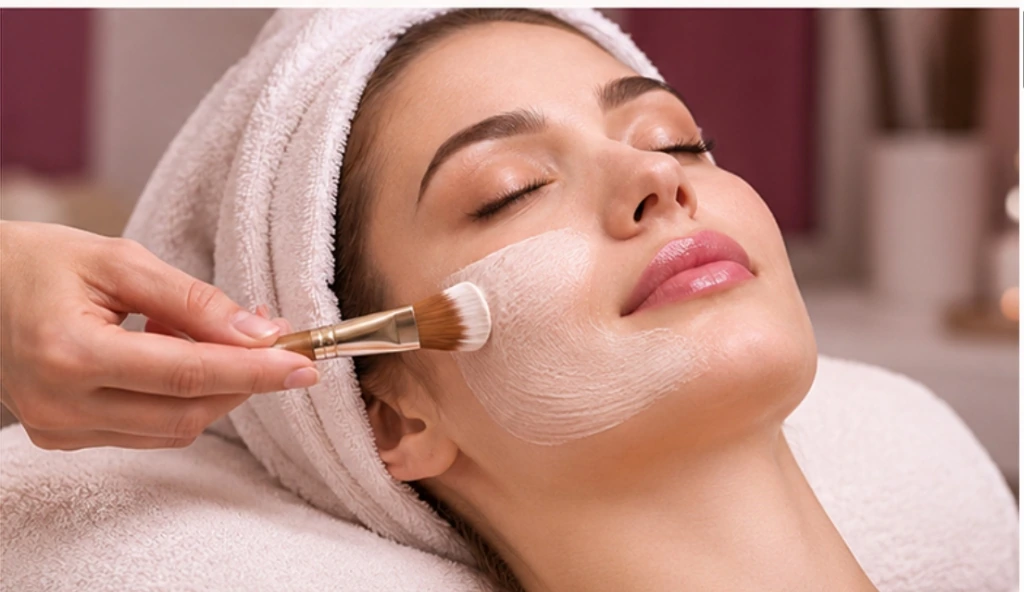
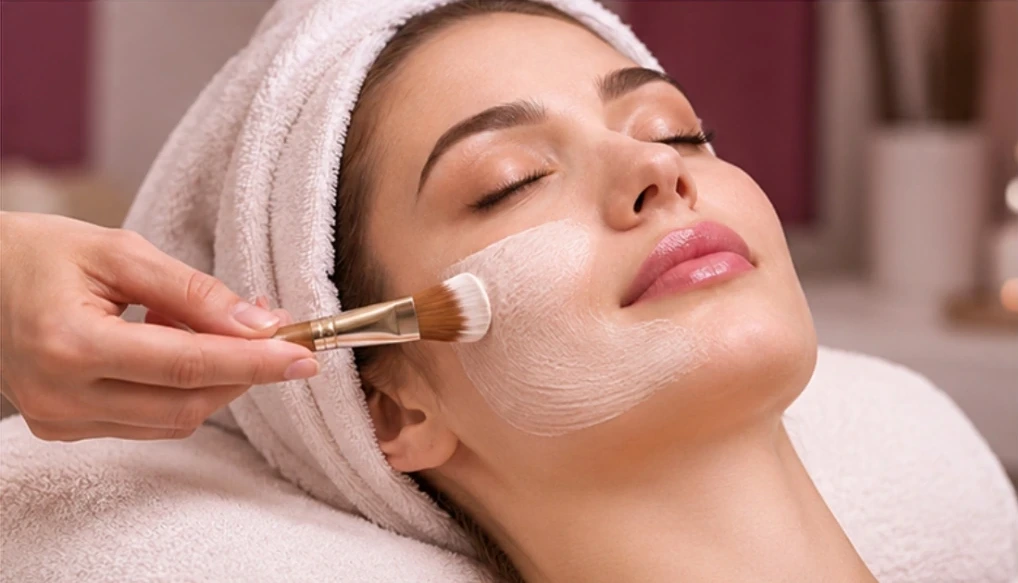
point fix

diff --git a/components/sections/AboutSection.tsx b/components/sections/AboutSection.tsx
@@ -3,6 +3,7 @@ import type { AboutData } from "@/types/templates.types";
 import { Icon } from "@/components/ui/Icon";
 import { HairProfileArt } from "@/components/ui/LineArt";
 import { DesignFrame } from "@/components/ui/DesignFrame";
+import { sectionTitleSize } from "@/components/ui/SectionHeading";
 import { sectionSpace } from "@/components/ui/sectionSpace";
 
 /** Round badge: the words around a circle (clockwise, starting at the bottom left) with a woman's profile in the middle */
@@ -40,7 +41,7 @@ export const AboutSection = ({ data }: { data?: AboutData }) => {
       <div className={`relative mx-auto max-w-[90rem] px-4 sm:px-6 lg:px-0 ${sectionSpace}`}>
         {/* the content runs from the top of the oval outline (206) to its foot (1121): 915 design px */}
         <DesignFrame height={42.8906} offset={9.6563}>
-        <div className="grid gap-12 md:grid-cols-[1fr_1.1fr] md:items-center lg:block">
+        <div className="grid gap-8 sm:gap-10 md:grid-cols-[1fr_1.1fr] md:items-center lg:block">
         {/* photo: an upright oval; the outline is the same oval turned 12°, so it shows at the top right and bottom left */}
         <div data-reveal className="relative mx-auto aspect-[733/915] w-full max-w-[26rem] lg:absolute lg:left-[5.8125rem] lg:top-[9.6563rem] lg:w-[34.3594rem] lg:max-w-none">
           <svg viewBox="0 0 733 915" className="absolute inset-0 size-full overflow-visible text-[var(--color-rose-soft)]" aria-hidden="true">
@@ -58,7 +59,7 @@ export const AboutSection = ({ data }: { data?: AboutData }) => {
               {data.label}
               <span aria-hidden="true" className="h-[2px] w-16 bg-current lg:mt-[0.4688rem] lg:h-[0.1875rem] lg:w-[7.3125rem]" />
             </p>
-            <h2 className="mt-3 font-display text-[length:min(2.5rem,calc((100vw-2rem)/10))] font-normal uppercase leading-[1.1] tracking-[-0.045em] text-[var(--color-heading)] sm:text-[2.6rem] lg:absolute lg:left-[44.0156rem] lg:top-[27.0469rem] lg:mt-0 lg:whitespace-nowrap lg:text-[3.75rem] lg:leading-none">
+            <h2 className={`mt-3 font-display ${sectionTitleSize} font-normal uppercase leading-[1.1] tracking-[-0.045em] text-[var(--color-heading)] lg:absolute lg:left-[44.0156rem] lg:top-[27.0469rem] lg:mt-0 lg:whitespace-nowrap lg:leading-none`}>
               {data.titleTop} <span className="font-bold text-[var(--color-primary)]">{data.titleAccent}</span>
             </h2>
             <p className="mt-3 font-text text-base font-light uppercase tracking-[0.3em] text-[var(--color-text)] sm:text-lg lg:absolute lg:left-[44.4844rem] lg:top-[31.8281rem] lg:mt-0 lg:whitespace-nowrap lg:text-[1.7203rem] lg:leading-none lg:tracking-[0.3em]">

diff --git a/components/sections/ContactSection.tsx b/components/sections/ContactSection.tsx
@@ -1,7 +1,7 @@
 import Image from "next/image";
 import type { ContactData, ContactFormData } from "@/types/templates.types";
 import { ContactForm } from "@/components/sections/ContactForm";
-import { accentClass, titleClass } from "@/components/ui/SectionHeading";
+import { accentClass, sectionTitleSize, titleClass } from "@/components/ui/SectionHeading";
 import { sectionSpace } from "@/components/ui/sectionSpace";
 
 /** The arch photo's corners: round at the top and bottom right, square at the bottom left (as % of the box) */
@@ -21,7 +21,7 @@ export const ContactSection = ({ data, form, serviceOptions }: Props) => {
 
   return (
     <section id={data.id} className={`scroll-mt-[4.5rem] bg-[var(--color-bg-main)] sm:scroll-mt-[5rem] lg:scroll-mt-[6.6094rem] ${sectionSpace}`}>
-      <div className="mx-auto grid max-w-[90rem] gap-12 px-4 sm:px-6 lg:grid-cols-[44.1563rem_32.9531rem] lg:justify-between lg:gap-0 lg:pl-[5.3906rem] lg:pr-[5.1094rem]">
+      <div className="mx-auto grid max-w-[90rem] gap-8 px-4 sm:gap-10 sm:px-6 lg:grid-cols-[44.1563rem_32.9531rem] lg:justify-between lg:gap-0 lg:pl-[5.3906rem] lg:pr-[5.1094rem]">
         <div className="lg:pt-[2.2969rem]">
           <div data-reveal>
             <p className="flex items-center gap-4 font-sans text-[1.05rem] font-semibold uppercase leading-none tracking-[0.2em] lg:tracking-[0.15em] text-[var(--color-primary-bright)] sm:text-[1.25rem] lg:gap-[1.2188rem] lg:text-[1.7344rem]">
@@ -29,7 +29,7 @@ export const ContactSection = ({ data, form, serviceOptions }: Props) => {
               <span className="-mr-[0.2em] lg:-mr-[0.15em]">{data.label}</span>
               <span aria-hidden="true" className="h-[0.0938rem] w-12 shrink-0 bg-current lg:ml-[0.6094rem] lg:w-[3.75rem]" />
             </p>
-            <h2 className={`mt-4 text-[length:min(2.6rem,calc((100vw-2rem)/8.4))] sm:text-[3.2rem] lg:mt-[1.6406rem] lg:text-[3.8906rem] lg:leading-none ${titleClass}`}>
+            <h2 className={`mt-4 ${sectionTitleSize} lg:mt-[1.6406rem] lg:leading-none ${titleClass}`}>
               {data.titleTop} <span className={accentClass}>{data.titleAccent}</span>
             </h2>
             <p className="mt-4 font-form text-base leading-relaxed text-[var(--color-text-soft)] sm:text-lg lg:mt-[0.5156rem] lg:text-[1.2984rem] lg:leading-[1.7813rem]">

diff --git a/components/sections/HeroSection.tsx b/components/sections/HeroSection.tsx
@@ -16,7 +16,7 @@ export const HeroSection = ({ data }: { data?: HeroData }) => {
   return (
     <section id={data.id} className="scroll-mt-[4.5rem] bg-[var(--color-bg-main)] pb-[var(--section-space)] sm:scroll-mt-[5rem] lg:scroll-mt-[6.5625rem]">
       <div className="relative isolate overflow-hidden bg-[var(--color-bg-hero)]">
-        <div className="relative mx-auto max-w-[90rem] px-4 pb-12 pt-10 sm:px-6 sm:pb-14 sm:pt-14 lg:h-[28.1719rem] lg:p-0">
+        <div className="relative mx-auto max-w-[90rem] px-4 pb-9 pt-8 sm:px-6 sm:pb-14 sm:pt-14 lg:h-[28.1719rem] lg:p-0">
           <p
             aria-hidden="true"
             className="pointer-events-none absolute -right-4 top-2 -z-10 select-none whitespace-nowrap font-script text-[7rem] leading-none text-[var(--color-watermark)] sm:right-0 sm:text-[10rem] lg:left-[41.25rem] lg:right-auto lg:top-[2.1563rem] lg:text-[13.1953rem]"
@@ -36,7 +36,7 @@ export const HeroSection = ({ data }: { data?: HeroData }) => {
             <span aria-hidden="true" className="mt-6 block h-[0.2rem] w-16 bg-[var(--color-primary)] lg:absolute lg:left-[8.0625rem] lg:top-[25.2188rem] lg:mt-0 lg:h-[0.2813rem] lg:w-[6.0469rem]" />
             <a
               href={data.buttonUrl}
-              className="mt-8 inline-flex h-14 items-center justify-center border-2 border-[var(--color-primary)] px-8 font-text text-sm font-semibold uppercase tracking-[0.13em] text-[var(--color-heading)] transition-colors duration-300 hover:bg-[var(--color-primary)] hover:text-[var(--color-white)] lg:absolute lg:left-[64.5469rem] lg:top-[16.7344rem] lg:mt-0 lg:h-[3.5625rem] lg:w-[17.4844rem] lg:border-[0.1406rem] lg:px-0 lg:text-[1.0547rem]"
+              className="mt-6 inline-flex h-14 items-center justify-center border-2 border-[var(--color-primary)] px-8 font-text text-sm font-semibold uppercase tracking-[0.13em] text-[var(--color-heading)] transition-colors duration-300 hover:bg-[var(--color-primary)] hover:text-[var(--color-white)] sm:mt-8 lg:absolute lg:left-[64.5469rem] lg:top-[16.7344rem] lg:mt-0 lg:h-[3.5625rem] lg:w-[17.4844rem] lg:border-[0.1406rem] lg:px-0 lg:text-[1.0547rem]"
             >
               {data.buttonText}
             </a>

diff --git a/components/ui/SectionHeading.tsx b/components/ui/SectionHeading.tsx
@@ -30,6 +30,7 @@ const SectionLabel = ({ label, align = "center", className = "" }: LabelProps) =
 /** Two-tone title: the accent words in maroon italics */
 export const titleClass = "font-heading font-[460] leading-[1.1] tracking-[-0.01em] text-[var(--color-heading)]";
 export const accentClass = "whitespace-nowrap font-[460] italic text-[var(--color-primary)]";
+export const sectionTitleSize = "text-[length:min(2.4rem,calc((100vw-2rem)/10))] sm:text-[3rem] lg:text-[3.75rem]";
 
 type HeadingProps = {
   label: string;
@@ -47,7 +48,7 @@ export const SectionHeading = ({ label, titleTop, titleAccent, description, titl
   <div data-reveal className={`text-center ${className}`}>
     <SectionLabel label={label} />
     {/* on phones the size follows the screen width (at most 2.4rem) so a title never takes more than two lines */}
-    <h2 className={`mt-4 text-[length:min(2.4rem,calc((100vw-2rem)/9))] sm:text-[3rem] ${titleClass} ${titleSize}`}>
+    <h2 className={`mt-4 ${sectionTitleSize} ${titleClass} ${titleSize}`}>
       {titleTop} <span className={accentClass}>{titleAccent}</span>
     </h2>
     {description && (

diff --git a/components/sections/PackagesSection.tsx b/components/sections/PackagesSection.tsx
@@ -56,10 +56,10 @@ export const PackagesSection = ({ data }: { data?: PackagesData }) => {
           titleTop={data.titleTop}
           titleAccent={data.titleAccent}
           description={data.description}
-          titleSize="lg:mt-[1.0781rem] lg:text-[3.7734rem]"
+          titleSize="lg:mt-[1.0781rem]"
           descriptionClass="lg:mt-[0.1875rem] lg:text-[1.3453rem] lg:leading-[1.875rem]"
         />
-        <ul className="mx-auto mt-10 grid max-w-md gap-6 md:max-w-none md:grid-cols-2 lg:mt-[2.5313rem] lg:grid-cols-3 lg:gap-[1.3125rem]">
+        <ul className="mx-auto mt-8 grid max-w-md gap-5 sm:mt-10 sm:gap-6 md:max-w-none md:grid-cols-2 lg:mt-[2.5313rem] lg:grid-cols-3 lg:gap-[1.3125rem]">
           {data.items.map((item, index) => (
             <PackageCard key={item.id} item={item} checkIcon={data.checkIcon} index={index} />
           ))}

diff --git a/app/globals.css b/app/globals.css
@@ -11,8 +11,8 @@
   --font-form: Arial, sans-serif;
   --font-script: cursive;
 
-  /* Space above and below every section (components/ui/sectionSpace.ts): the same on every screen */
-  --section-space: 60px;
+  /* Space above and below every section (components/ui/sectionSpace.ts): tighter on mobile, 60px on desktop */
+  --section-space: 36px;
 
   /* Glaméra theme (from the logo and the design: deep maroon and rose on white and blush) */
   /* Brand */
@@ -70,4 +70,16 @@
   /* Decorations drawn in code (components/ui/LineArt.tsx) */
   --color-decor: #f6dde5;
   --color-decor-light: #fbebf0;
+}
+
+@media (min-width: 640px) {
+  :root {
+    --section-space: 48px;
+  }
+}
+
+@media (min-width: 1024px) {
+  :root {
+    --section-space: 60px;
+  }
 }

diff --git a/components/common/Header.tsx b/components/common/Header.tsx
@@ -17,7 +17,10 @@ const ctaClass =
   "inline-flex items-center justify-center rounded-full bg-[var(--color-primary)] font-nav font-bold text-[var(--color-white)] transition-[background-color,transform] duration-300 hover:-translate-y-0.5 hover:bg-[var(--color-hover)]";
 
 export const Header = ({ data, company }: { data?: HeaderData; company: CompanyData }) => {
-  const [ids] = useState(() => data?.navLinks.map((link) => sectionId(link.url)) ?? []);
+  const [ids] = useState(() => [
+    ...(data?.navLinks.map((link) => sectionId(link.url)) ?? []),
+    ...(data?.buttonUrl.startsWith("#") ? [sectionId(data.buttonUrl)] : []),
+  ]);
   const { active, scrolled } = useActiveSection(ids);
   const [open, setOpen] = useState(false);
 

diff --git a/components/sections/ServicesSection.tsx b/components/sections/ServicesSection.tsx
@@ -15,11 +15,11 @@ export const ServicesSection = ({ data }: { data?: ServicesData }) => {
           titleTop={data.titleTop}
           titleAccent={data.titleAccent}
           description={data.description}
-          titleSize="lg:mt-[1.0313rem] lg:text-[3.9984rem]"
+          titleSize="lg:mt-[1.0313rem]"
           descriptionClass="lg:mt-[0.4219rem] lg:text-[1.3594rem] lg:leading-[1.9688rem]"
         />
 
-        <ul className="mt-12 grid gap-y-12 sm:grid-cols-2 lg:mt-[3.9844rem] lg:grid-cols-4 lg:gap-y-0">
+        <ul className="mt-9 grid gap-y-9 sm:mt-12 sm:grid-cols-2 sm:gap-y-12 lg:mt-[3.9844rem] lg:grid-cols-4 lg:gap-y-0">
           {data.items.map((item, index) => (
             <li
               key={item.id}

diff --git a/components/sections/ContactForm.tsx b/components/sections/ContactForm.tsx
@@ -72,7 +72,7 @@ export const ContactForm = ({ data, serviceOptions }: { data?: ContactFormData; 
       onSubmit={submit.onSubmit}
       onInput={submit.onInput}
       aria-busy={submit.sending}
-      className="mt-8 grid gap-4 sm:grid-cols-2 lg:mt-[3.0938rem] lg:gap-x-[1.8281rem] lg:gap-y-[1.125rem]"
+      className="mt-6 grid gap-4 sm:mt-8 sm:grid-cols-2 lg:mt-[3.0938rem] lg:gap-x-[1.8281rem] lg:gap-y-[1.125rem]"
     >
       <Field icon={fields.name.icon}>
         <input name="name" required placeholder={fields.name.placeholder} aria-label={fields.name.placeholder} autoComplete="name" className={field} />

diff --git a/components/sections/TestimonialsSection.tsx b/components/sections/TestimonialsSection.tsx
@@ -15,10 +15,10 @@ export const TestimonialsSection = ({ data }: { data?: TestimonialsData }) => {
           titleTop={data.titleTop}
           titleAccent={data.titleAccent}
           description={data.description}
-          titleSize="lg:mt-[1.3125rem] lg:text-[4.1859rem]"
+          titleSize="lg:mt-[1.3125rem]"
           descriptionClass="lg:-mt-[0.375rem] lg:text-[1.6406rem] lg:leading-[2.0625rem]"
         />
-        <div className="mt-6 lg:mt-[2.25rem]">
+        <div className="mt-4 sm:mt-6 lg:mt-[2.25rem]">
           <TestimonialSlider data={data} />
         </div>
       </div>

diff --git a/components/sections/GallerySection.tsx b/components/sections/GallerySection.tsx
@@ -15,10 +15,10 @@ export const GallerySection = ({ data }: { data?: GalleryData }) => {
           titleTop={data.titleTop}
           titleAccent={data.titleAccent}
           description={data.description}
-          titleSize="lg:mt-[0.5156rem] lg:text-[3.5391rem]"
+          titleSize="lg:mt-[0.5156rem]"
           descriptionClass="lg:-mt-[0.3281rem] lg:text-[1.3125rem] lg:leading-[1.875rem]"
         />
-        <div className="mt-8 lg:mt-[1.875rem]">
+        <div className="mt-6 sm:mt-8 lg:mt-[1.875rem]">
           <GalleryGrid data={data} />
         </div>
       </div>

diff --git a/components/sections/GalleryGrid.tsx b/components/sections/GalleryGrid.tsx
@@ -56,7 +56,7 @@ export const GalleryGrid = ({ data }: { data: GalleryData }) => {
       </div>
 
       {/* keyed by filter, so the photos fade in again when the filter changes */}
-      <div key={filter} className="mt-8 grid grid-cols-2 gap-2.5 sm:gap-3 md:grid-cols-4 lg:mt-[2.3906rem] lg:gap-[0.6094rem]">
+      <div key={filter} className="mt-6 grid grid-cols-2 gap-2.5 sm:mt-8 sm:gap-3 md:grid-cols-4 lg:mt-[2.3906rem] lg:gap-[0.6094rem]">
         {items.map((photo, i) => (
           <button
             key={photo.id}
